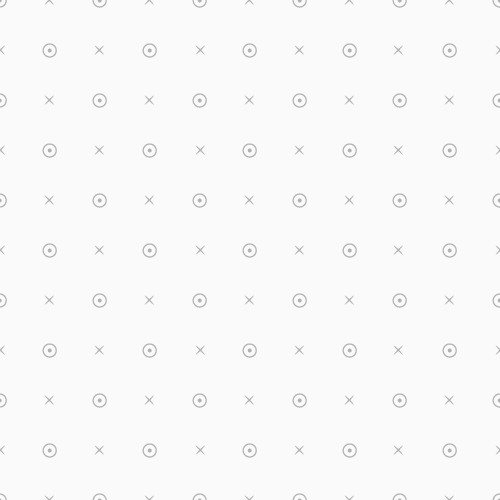
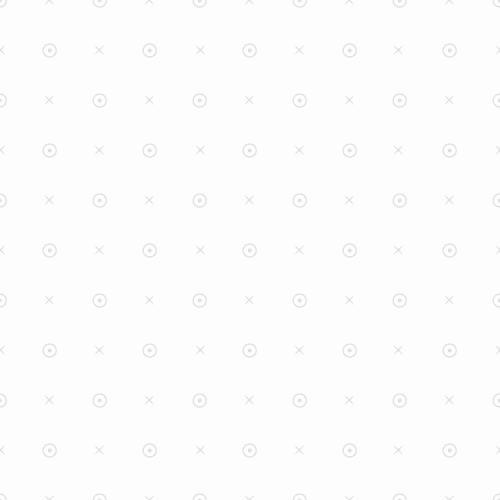
Guess checking works. To fix - checkGuess div appearance once saved to history.

diff --git a/js/mastermind.js b/js/mastermind.js
@@ -19,7 +19,7 @@ const PEG = {
         // guessColor = computerColor && guessPanel = computerPanel
     whitePeg: '&#9675;',
         // guessColor = computerColor && guessPanel !== computerPanel
-    emptyPeg: ''
+    emptyPeg: '&#735;'
     // QUESTION: Do I need to define a null state i.e. no correct colours
 };
 
@@ -104,7 +104,6 @@ function modalSelect() {
 
             // Change the submit button image based on validateGuess
             if (isValid) {
-                console.log(message);
                 submitGuessButtonImg.disabled = false; // Enable the button
                 submitGuessButtonImg.src = 'assets/icon-check-48-blue.png';
             } else {
@@ -138,7 +137,7 @@ function modalSelect() {
 }
 
 
-
+    
 function clearGuess() {
     const guessCode = document.querySelector('.guessCode');
     const guessPanels = guessCode.querySelectorAll('div');
@@ -148,10 +147,23 @@ function clearGuess() {
             panel.classList.remove('activeGuessBorder');
             panel.classList.remove('codeCheck');
             panel.classList.add('anonymous');
+            panel.classList.remove('red', 'yellow', 'green', 'blue', 'purple', 'orange')
         }
     });
 
-    // set img src of submit button to grey
+    const guessCodeCheck = guessCode.querySelector('.codeCheck');
+    const codeCheckPegs = guessCodeCheck.querySelectorAll('.peg');
+
+    codeCheckPegs.forEach((div, index) => {
+        if (index < 4) {
+            div.classList.remove('blackPeg');
+            div.classList.remove('whitePeg');
+            div.classList.remove('emptyPeg');
+            div.innerHTML = '';
+        }
+    });
+
+    // Set img src of submit button to grey
     const submitGuessButtonImg = document.querySelector('#submitIcon');
     submitGuessButtonImg.src = 'assets/icon-check-48-grey.png';
 
@@ -162,7 +174,7 @@ function clearGuess() {
     const isValid = validateGuess(guessValues);
     console.log('Cleared! Is Guess Valid:', isValid);
 }
-    
+
 
 
 init();
@@ -277,7 +289,7 @@ function init() {
     guessCode.appendChild(codeCheckDiv);
 
     modalSelect();
-    generatePegs();
+    // generatePegs();
 
 }
 
@@ -328,6 +340,7 @@ function getGuessValues() {
         const classList = guessPanels[i].classList;
         for (let className of classList) {
             if (className !== 'activeGuessBorder' && className !== 'codeCheck') {
+            // if (className !== 'activeGuessBorder' && className !== 'codeCheck' && className !== 'anonymous') {
                 guessValues.push(className);
             }
         }
@@ -370,6 +383,9 @@ function submitGuess() {
         return;
     }
 
+    // Call checkGuess after submitting the guess
+    checkGuess(secretCode);
+
     // increment turnCount
     turnCount++;
 
@@ -385,64 +401,96 @@ function submitGuess() {
     const guessCodeCopy = guessCode.cloneNode(true);
 
     // change class of cloned guessCode div to reflect turn number
-    const turnNumber = document.querySelectorAll('.turn').length + 1;
     guessCodeCopy.classList.remove('guessCode');
     guessCodeCopy.classList.add(`turn${turnCount}`);
 
-    // append clone to history secton
-    // const historySection = document.getElementById('history');
+    // append clone to history section
     historySection.appendChild(guessCodeCopy);
 
     // clear the guessCode div
     clearGuess();
-
 }
 
-function generatePegs() {
+
+// function generatePegs() {
+//     const codeCheckDiv = document.querySelector('.codeCheck');
+//     // clear existing content
+//     codeCheckDiv.innerHTML = '';
+
+//     for( let i = 0; i < 4; i++) {
+//         const whitePeg = document.createElement('div');
+//         whitePeg.classList.add('peg');
+//         whitePeg.innerHTML = PEG.whitePeg;
+//         // set divs to inline block
+//         // whitePeg.style.display = 'inline-block';
+//         codeCheckDiv.appendChild(whitePeg);
+//     }
+// };
+
+
+function checkGuess(secretCode) {
+    const guessValues = getGuessValues();
+    console.log("Guess Values:", guessValues);
     const codeCheckDiv = document.querySelector('.codeCheck');
-    // clear existing content
+    // Clear existing content
     codeCheckDiv.innerHTML = '';
 
-    for( let i = 0; i < 4; i++) {
-        const whitePeg = document.createElement('div');
-        whitePeg.classList.add('peg');
-        whitePeg.innerHTML = PEG.whitePeg;
-        // set divs to inline block
-        // whitePeg.style.display = 'inline-block';
-        codeCheckDiv.appendChild(whitePeg);
+    const unmatchedGuessIndices = [];
+    const unmatchedSecretIndices = [];
+
+    // Find black pegs (exact matches)
+    for (let i = 0; i < 4; i++) {
+        if (guessValues[i] === secretCode[i]) {
+            const blackPeg = document.createElement('div');
+            blackPeg.classList.add('peg');
+            blackPeg.classList.add('blackPeg');
+            blackPeg.innerHTML = PEG.blackPeg;
+            codeCheckDiv.appendChild(blackPeg);
+        } else {
+            unmatchedGuessIndices.push(i);
+            unmatchedSecretIndices.push(i);
+        }
     }
-};
+    console.log("Unmatched Guess Indices:", unmatchedGuessIndices);
+    console.log("Unmatched Secret Indices:", unmatchedSecretIndices);
 
+    // Find white pegs (partial matches)
+    for (let i = 0; i < unmatchedGuessIndices.length; i++) {
+        const guessIndex = unmatchedGuessIndices[i];
+        const guessColor = guessValues[guessIndex];
+        for (let j = 0; j < unmatchedSecretIndices.length; j++) {
+            const secretIndex = unmatchedSecretIndices[j];
+            if (guessColor === secretCode[secretIndex]) {
+                const whitePeg = document.createElement('div');
+                whitePeg.classList.add('peg');
+                whitePeg.classList.add('whitePeg');
+                whitePeg.innerHTML = PEG.whitePeg;
+                codeCheckDiv.appendChild(whitePeg);
+                // Remove the matched indices from the unmatched lists
+                unmatchedGuessIndices.splice(i, 1);
+                unmatchedSecretIndices.splice(j, 1);
+                // Decrement loop counters to account for the removal
+                i--;
+                break;
+            }
+        }
+    }
+    console.log("Unmatched Guess Indices after white pegs:", unmatchedGuessIndices);
+    console.log("Unmatched Secret Indices after white pegs:", unmatchedSecretIndices);
 
-function checkGuess() {
-    // create checkArray with four values
-    // compare guessCode array to secretCode array
-
-    // OPTION 1 – how to handle multiples?
-    // forEach index, if guessCode === secretCode
-        // return blackPeg 
-        // push to checkArray
-    // forEach index, if guessCode = same color in secretCode
-        // return whitePeg
-        // push to checkArray
-    // forEach index, if guessCode != same color in secretCode
-        // return emptyPed
-        // push to checkArray
-
-
-    // OPTION 2
-    // forEach coresponding index from guessCode with secretCode i.e. 1/1, 2/2 , 3/3, 4/4
-        // if guessCode[i] === secretCode[i]
-        // return blackPeg
-        // push to checkArray
-    // forEach guessCode[i] !== secretCode[i] ...
-
-    
-    // OPTION 3
-    // 
-    
-    
+    // Fill the remaining spaces with empty pegs
+    const remainingPegs = 4 - (document.querySelectorAll('.peg').length);
+    for (let i = 0; i < remainingPegs; i++) {
+        const emptyPeg = document.createElement('div');
+        emptyPeg.classList.add('peg');
+        emptyPeg.innerHTML = PEG.emptyPeg;
+        codeCheckDiv.appendChild(emptyPeg);
+    }
 }
+
+
+
+
 
 function getWinner() {
     // player wins
@@ -456,4 +504,3 @@ function getWinner() {
             // reveal secretCode
     
 }
-

diff --git a/index.html b/index.html
@@ -20,8 +20,7 @@
     <header id="topFix">
         <section id="code">
             <section class="message"><h1></h1></section>
-            <div class="computerCode">
-            </div>
+            <div class="computerCode"></div>
         </section>
     </header>
 
@@ -47,7 +46,7 @@
         <section id="guess" class="bottom">
             <div class="currentTurn">
                 <div class="guessCode">
-                    <div class="codeCheck"><h2></h2></div>
+                    <div class="codeCheck"></div>
                 </div>
             </div>
             <section id="controls">

diff --git a/css/main.css b/css/main.css
@@ -16,7 +16,7 @@ body {
   background-image: url("../assets/pattern-circles-crosses.png");
   background-repeat: repeat repeat;
   background-position: center;
-  background-color: #D7CCC8;
+  background-color: #F5F5F5;
 }
 
 header {
@@ -379,7 +379,7 @@ img {
   h3 {
     font-size: 44px;
     header {
-      height: 183px;
+    height: 183px;
     }
     .container {
       padding: 0 12px;
